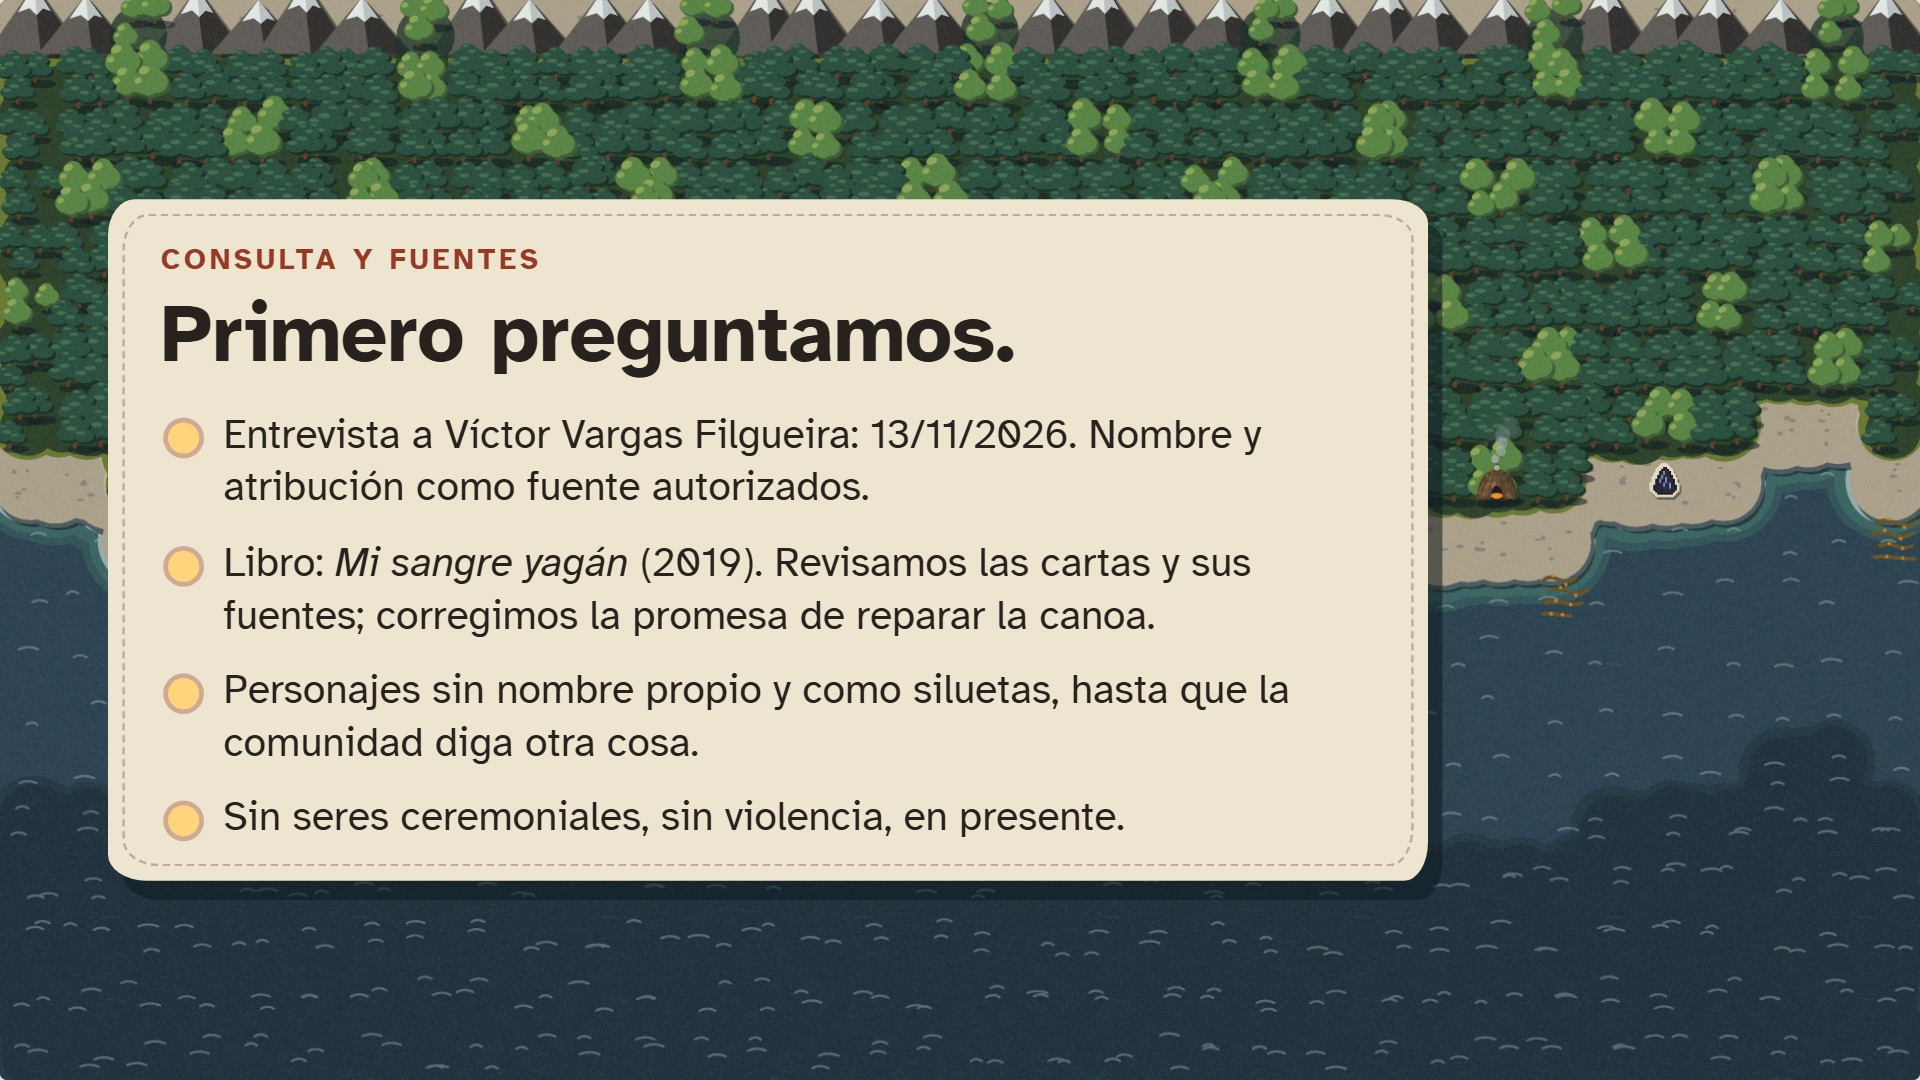
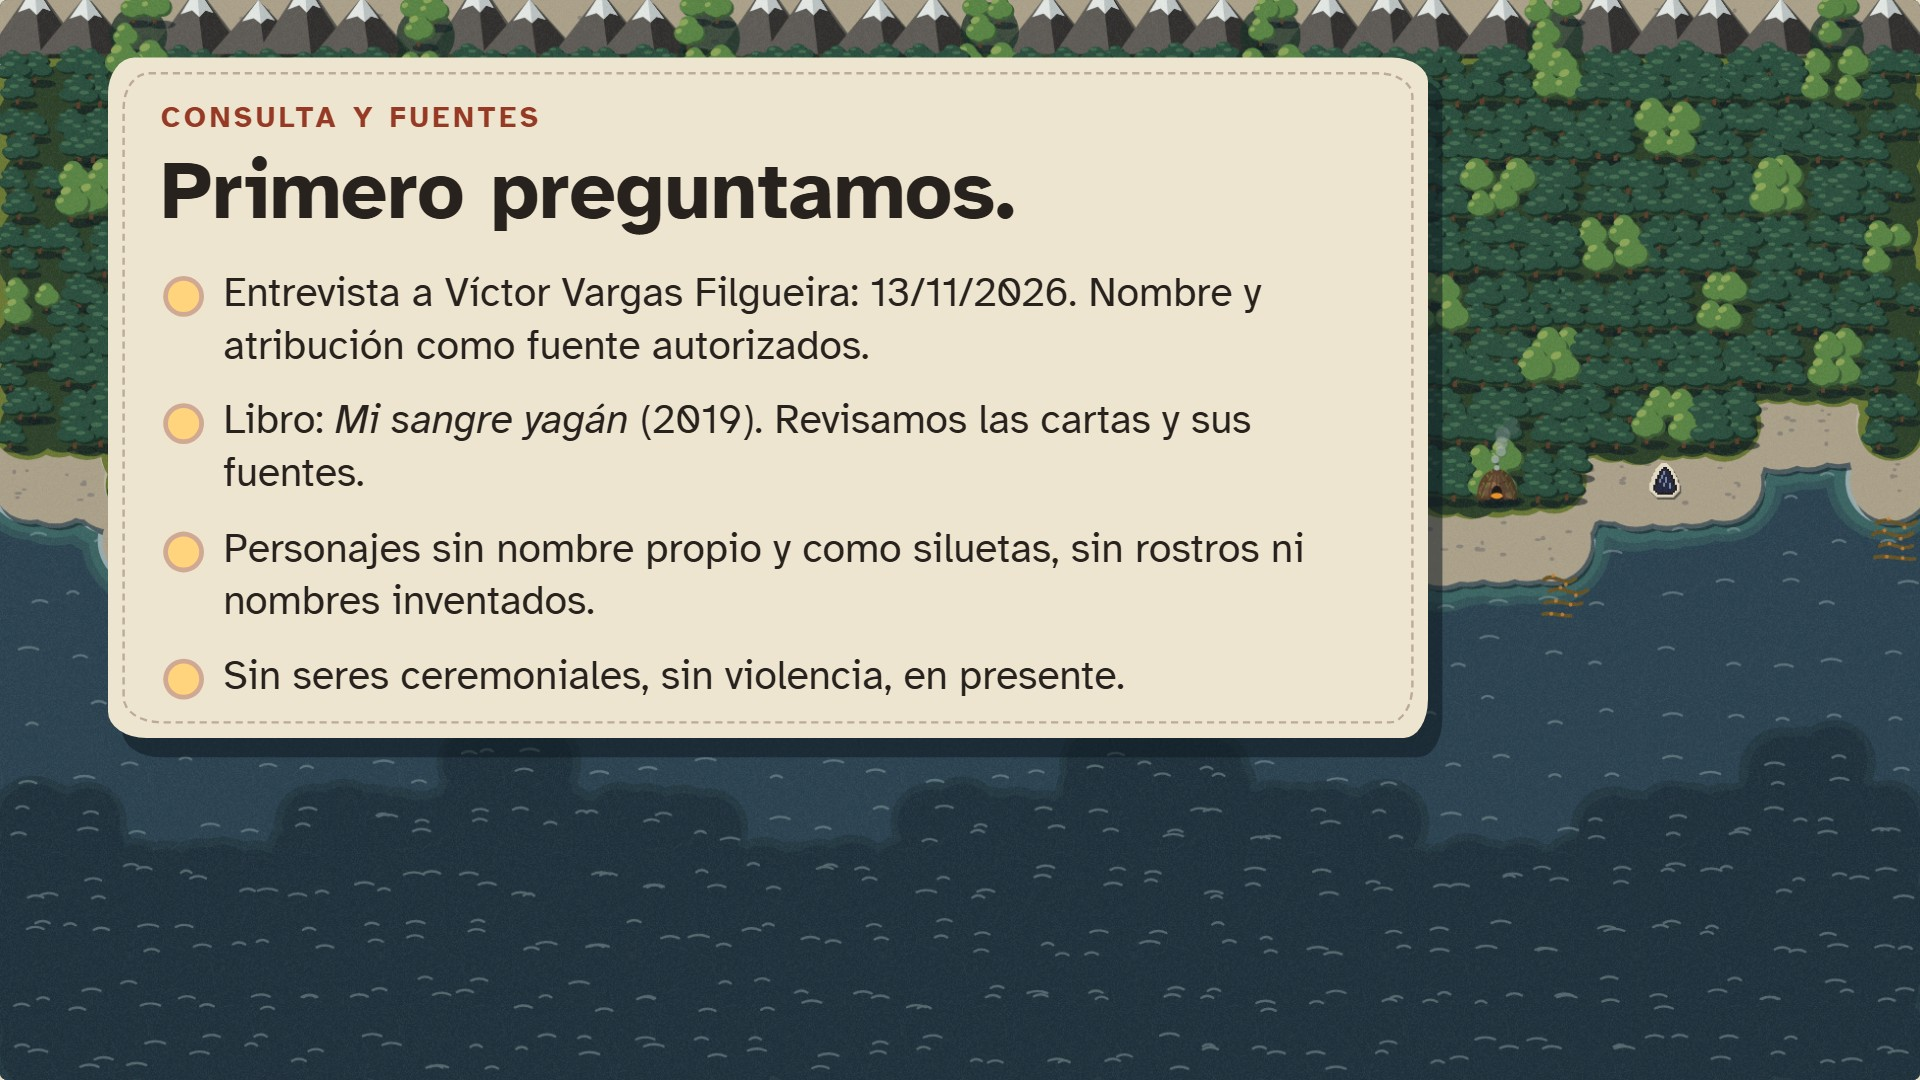
Video: la diapositiva de la consulta sin afirmar una consulta a la comunidad
A pedido de Facu, en el video se saca «corregimos la promesa de reparar la
canoa» y «hasta que la comunidad diga otra cosa». La tarjeta sube para que no
la tapen los subtítulos.

Changed region(s): [[0.0312, 0.0306, 0.75, 0.4583], [0.0312, 0.6111, 0.75, 0.825], [0.0625, 0.4889, 0.6875, 0.5806]]

diff --git a/equipo/memory.md b/equipo/memory.md
@@ -7,7 +7,7 @@
 - **Pirita como motivo del viaje (18/11):** Dani aprobó el pedido de Mati del PR 39. El destino `pirita` pasa a `borrador` y puede salir junto con la ballena, con su fuente existente: Cooper (1946), «The Yahgan», pp. 94–95. La carta de pirita conserva `revisado`; el destino de corteza sigue en `propuesta`.
 - **Cartas originales revisadas (18/11):** Dani aprobó las nueve cartas originales, que pasan a `revisado`. Se prioriza completar la propuesta inicial. Las ocho nuevas siguen como borradores fuera del juego, pendientes de acuerdo con Mati y Facu. La consulta comunitaria sigue abierta. El resumen de las propuestas está en `equipo/revision-victor-y-cartas-nuevas.md`.
 - **Fecha de la última actualización:** 18/11/2026 (día de la entrega).
-- **Video de la entrega (18/11, B, en el storyboard de D):** con el OK de Facu, las voces de los cuadros 4 y 6 suman el minijuego («si sale mal, se pierde el turno»), la llegada al destino y la crónica del final; se actualizaron `equipo/video/README.md`, `equipo/comunicacion.md` y `subtitulos.srt`. Los clips se volvieron a grabar con lo último de `main` (canoa que se mece, crónica, «Volver al menú» y la etiqueta «Yagán» del mapa). Las voces las graban Facu y Dani; se edita en Shotcut. También se rehicieron `08-consulta.jpg` y `09-cierre.jpg` (eran de la primera versión del pitch, con huecos; ahora salen de la presentación en 1920 × 1080) y, con el OK de Facu, `04b-minijuego.jpg` de D, que mostraba un dato de los mejillones que el juego ya no usa.
+- **Video de la entrega (18/11, B, en el storyboard de D):** con el OK de Facu, las voces de los cuadros 4 y 6 suman el minijuego («si sale mal, se pierde el turno»), la llegada al destino y la crónica del final; se actualizaron `equipo/video/README.md`, `equipo/comunicacion.md` y `subtitulos.srt`. Los clips se volvieron a grabar con lo último de `main` (canoa que se mece, crónica, «Volver al menú» y la etiqueta «Yagán» del mapa). Las voces las graban Facu y Dani; se edita en Shotcut. También se rehicieron `08-consulta.jpg` y `09-cierre.jpg` (eran de la primera versión del pitch, con huecos; ahora salen de la presentación en 1920 × 1080) y, con el OK de Facu, `04b-minijuego.jpg` de D, que mostraba un dato de los mejillones que el juego ya no usa. En el video, la diapositiva de la consulta (19/11, pedido de Facu) no dice «corregimos la promesa de reparar la canoa» ni «hasta que la comunidad diga otra cosa», porque no hubo consulta a la comunidad: dice «Personajes sin nombre propio y como siluetas, sin rostros ni nombres inventados». La presentación del pitch todavía tiene el texto anterior.
 - **Pitch: rigor y nombres (18/11, B, en la presentación de D):** en la diapositiva 4 se sacó la ruta `docs/05-rigor-historico.md`; ahora dice que un saber sin fuente no entra al juego y queda pendiente hasta verificarlo. En la 9, «[nombres]» pasa a ser los cuatro nombres del README. Se regeneraron las imágenes y `pitch.pdf`. La carta de la diapositiva 4 es «Amarrar en el cachiyuyo» y se lee de `datos/saberes.js`: Dani la está corrigiendo, y cuando cambie hay que volver a exportar (`node presentacion/exportar.cjs`).
 - **«Empezar otro viaje» va directo al viaje, y las transiciones se ven (19/11, B):** al confirmar (ahora dice «¿Terminar este viaje? Tocá de nuevo»), el viaje termina, lo aprendido pasa a la generación siguiente y se ve el paso del fuego antes del viaje nuevo. Antes pasaba por «¿A quién acompañás?» con la misma familia una generación más adelante, y parecía que no había pasado nada. Además, las transiciones (el humo entre pantallas y el paso del fuego) **no se veían desde siempre**: las pantallas son `position: fixed` y el `body` medía 0 de alto, así que el lienzo de `arte/corteza/transiciones.js` medía 0. Por eso la generación siguiente parecía «tardar»: eran 5 s de animación invisible. Se arregló en `pantallas.css` (body del alto de la pantalla), sin tocar el archivo de D.
 - **Menú y botones (18/11, B):** «Empezar otro viaje» se confirma en el mismo botón (el primer toque pregunta y el segundo confirma), porque `confirm()` puede estar bloqueado y entonces el botón no hacía nada después de pausar. Al terminar el viaje hay un botón «Volver al menú». «Empezar la generación siguiente» dice «Preparando el viaje…» mientras dura la animación del paso del fuego: armar el viaje nuevo tarda unos 35 ms, y lo que demora son los 5,2 s de esa animación (`pasoDelFuego` en `arte/corteza/transiciones.js`, de D). Con el mouse, los botones se agrandan un 5 % y toman un tono apenas más oscuro de la paleta (papel `w`, fuego `y`); en el celular no, y con movimiento reducido solo cambia el color. En «¿A quién acompañás?», la tarjeta que se puede elegir (yagán) crece un 3 %, toma el papel `w` y un borde de fuego `Y`; la de «Próximamente» no cambia. En el mapa de esa pantalla, la etiqueta «Yagán» también elige (un botón transparente encima del rótulo). Con mouse, el territorio yagán se ilumina al pasar por la tarjeta o por la etiqueta; en el celular queda siempre destacado. No se cambió el dibujo de D (`arte/mapa/mapa.js`): se usa su opción `destacar`. Solo el rótulo es clickeable, no el territorio: el pie dice «aproximados» y no conviene remarcar límites.
